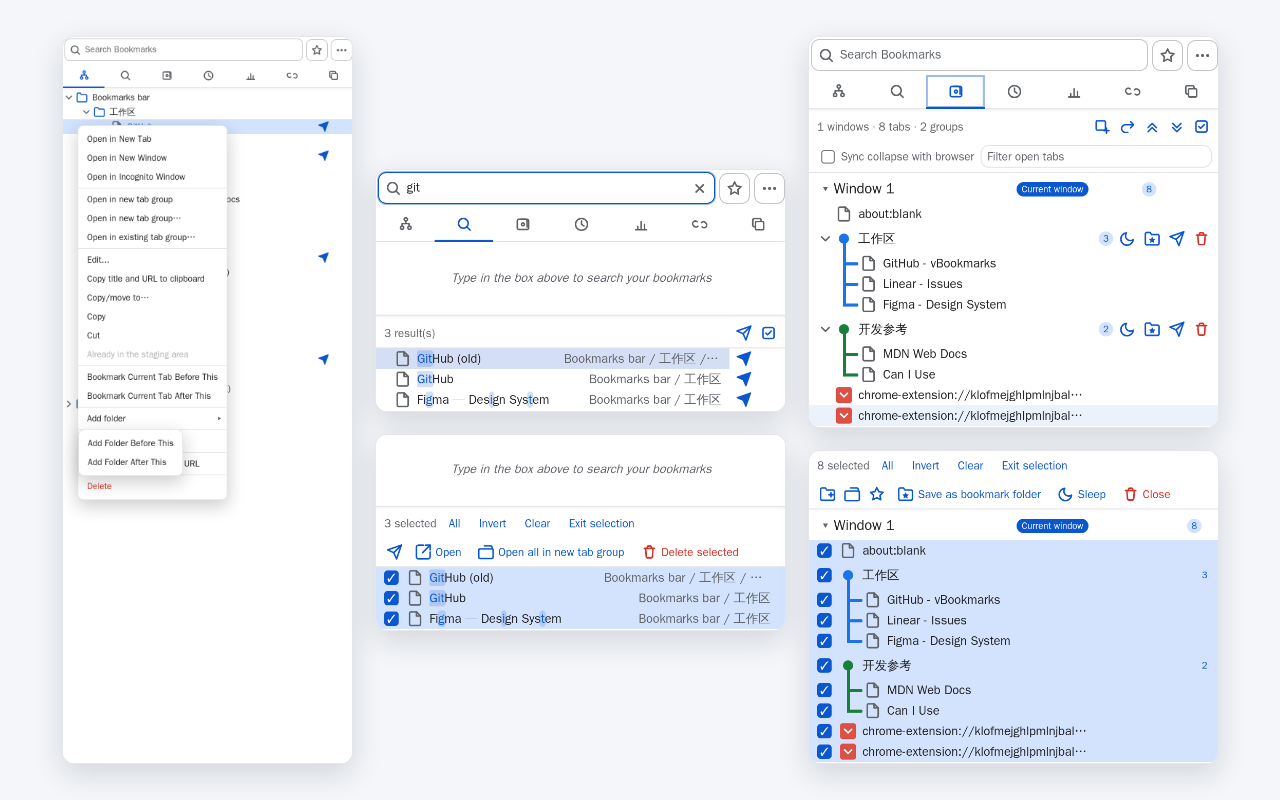
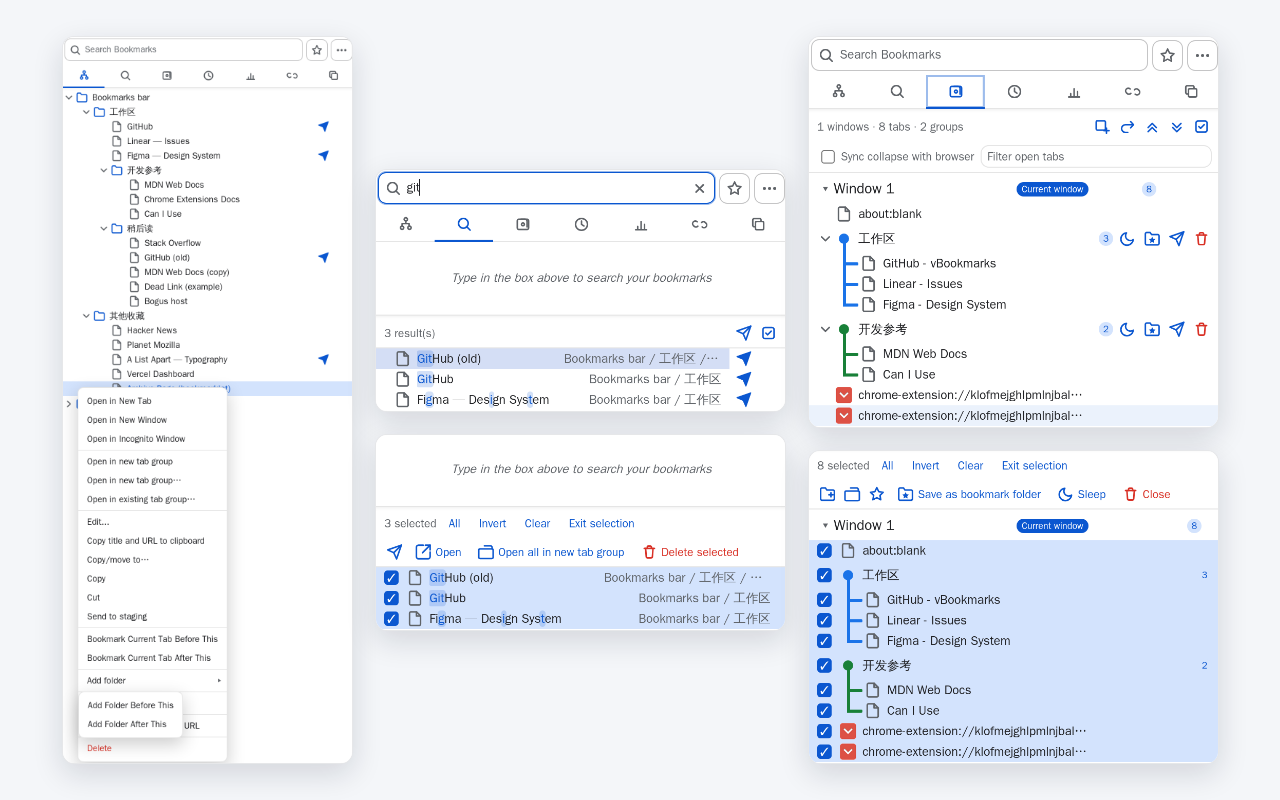
feat(store): 文案竞争力扩写 + 截图三优化(菜单锚点/字体/宣传图布局)
- description.{en,zh-CN}.txt 扩写后半:添加与整理便捷度(四种快存/窗口
  存档/批量/可撤销)、全键盘流(Alt+1…7/Tab 区域/Esc 分层)、暂存工作台
  新形态、超越官方的加强(分割线/favicon 补齐/死链双通道/同步指示)、
  主题与侧边栏展望;前半保持精炼,无重复
- shots-store.js: 右键菜单改在树末行(Archive Page)触发 —— 菜单垂到
  树下部空白,树上半部完整可见;子菜单展开位置加视口底部钳制
- 字体根治:容器内 fc-match 全部落空回退文泉驿(丑 CJK 根因)——
  fetch.sh 改拉静态实例(Inter.ttc 全集 + NotoSansSC-Regular/Medium/
  Bold.otf,variable 默认实例只有 400 偏细);rerun.sh/run.sh 字体拷贝
  改 cp -rL(worktree 符号链接进 Docker 上下文会断);.gitignore 补
  *.ttc/*.otf
- marquee 重排:新增七视图关键词 chips 行(单行 780px),⌘ + K 加空格
  防挤;右侧产品卡改小窗形态(标题栏三圆点 + 底部白边),圆角不再切
  popup 截图的角
- 八张产物全部重出并通过 normalize 门禁;webstore 测试 55/55 绿

Changed region(s): [[0.0312, 0.125, 0.2812, 0.9375]]

diff --git a/scripts/screenshots/shots-store.js b/scripts/screenshots/shots-store.js
@@ -363,17 +363,21 @@ const SEED = `
 
     // --- 2. light-tree page keeps going: context menu overlay ----------------
     // The promo's main card: expanded tree with the bookmark context menu
-    // open and its collapsible entry expanded in place. The visibly rendered
-    // collapsible varies by build gating (the tab-group trigger is
+    // open and its collapsible entry expanded in place. The menu is triggered
+    // on the tree's LAST bookmark row so it drapes over the tree's lower
+    // blank area — the tree's upper body stays fully visible (right-clicking
+    // a top row used to bury the whole tree under the menu). The visibly
+    // rendered collapsible varies by build gating (the tab-group trigger is
     // display:none here), so pick whichever has-submenu entry is laid out;
-    // placement replicates positionMenu's stack-below fallback.
+    // placement replicates positionMenu's stack-below fallback, clamped to
+    // the viewport bottom.
     {
         const page = await openThemed('light', 2, 1000);
         await expandTree(page);
         const link = await page.evaluate(() => {
             const a = [...document.querySelectorAll('#tree a.tree-item-link')]
-                .find(a => (a.querySelector('i')?.textContent || '').includes('GitHub'));
-            if (!a) throw new Error('bookmark row not found: GitHub');
+                .find(a => (a.querySelector('i')?.textContent || '').includes('Archive Page'));
+            if (!a) throw new Error('bookmark row not found: Archive Page');
             const rect = a.getBoundingClientRect();
             a.dispatchEvent(new MouseEvent('contextmenu', {
                 bubbles: true, cancelable: true, view: window,
@@ -400,10 +404,13 @@ const SEED = `
                     const r = e.getBoundingClientRect();
                     sub.style.maxHeight = '';
                     sub.style.maxWidth = '';
-                    sub.style.left = `${r.left + window.scrollX}px`;
-                    sub.style.top = `${r.bottom + window.scrollY + 2}px`;
                     sub.style.opacity = '1';
                     sub.style.transform = 'scale(1)';
+                    // The menu sits near the viewport bottom now — keep the
+                    // flyout inside the frame (stack below, else pin up).
+                    const sh = sub.getBoundingClientRect().height;
+                    sub.style.left = `${r.left + window.scrollX}px`;
+                    sub.style.top = `${Math.min(r.bottom + window.scrollY + 2, innerHeight - sh - 8)}px`;
                     e.setAttribute('aria-expanded', 'true');
                     return id;
                 }
@@ -722,7 +729,18 @@ const SEED = `
                     clip-path:polygon(8% 28%,50% 62%,92% 28%,92% 46%,50% 80%,8% 46%);"></div>`;
 
     {
-        const cardW = 300, cardH = 442;
+        // 左侧品牌区 + 两排 chips:第一排是七个视图关键词(即功能集合),
+        // 第二排是资历/语言/面板入口。右侧产品卡做成小窗:标题栏(三圆点)
+        // 吃掉卡片圆角,popup 截图从标题栏下方开始、底部再补白边,卡片圆角
+        // 不再切到截图自身的角。
+        const cardW = 300;
+        const imgH = cardW / aspectOf('tree-light');
+        const dot = c => `<div style="width:11px;height:11px;border-radius:50%;background:${c};"></div>`;
+        const viewChip = t => `<div style="padding:6px 12px;border-radius:999px;background:rgba(255,255,255,.13);
+                    border:1px solid rgba(255,255,255,.30);font-size:15.5px;font-weight:600;
+                    color:rgba(255,255,255,.95);white-space:nowrap;">${t}</div>`;
+        const metaChip = t => `<div style="padding:9px 18px;border-radius:999px;background:rgba(255,255,255,.16);
+                    border:1px solid rgba(255,255,255,.35);font-size:18px;font-weight:600;color:#fff;">${t}</div>`;
         await compose('marquee.html', 1400, 560, `
 <div style="position:relative;height:100vh;overflow:hidden;${brandFont}
             background:linear-gradient(115deg,#EC6150 0%,#D94837 48%,#B43024 100%);">
@@ -732,18 +750,24 @@ const SEED = `
                     box-shadow:0 14px 34px rgba(80,15,8,.35);display:flex;align-items:center;justify-content:center;">
             <img src="${brandIcon}" style="width:74px;height:74px;">
         </div>
-        <div style="margin-top:30px;font-size:66px;font-weight:800;letter-spacing:-2px;color:#fff;">vBookmarks</div>
-        <div style="margin-top:14px;font-size:25px;font-weight:500;color:rgba(255,255,255,.92);">Your bookmarks, one keypress away.</div>
-        <div style="margin-top:32px;display:flex;gap:12px;">
-            ${['Since 2011', '43 languages', 'MV3 native', '⌘K palette'].map(c =>
-                `<div style="padding:9px 18px;border-radius:999px;background:rgba(255,255,255,.16);
-                             border:1px solid rgba(255,255,255,.35);font-size:18px;font-weight:600;color:#fff;">${c}</div>`).join('')}
+        <div style="margin-top:28px;font-size:66px;font-weight:800;letter-spacing:-2px;color:#fff;">vBookmarks</div>
+        <div style="margin-top:12px;font-size:25px;font-weight:500;color:rgba(255,255,255,.92);">Your bookmarks, one keypress away.</div>
+        <div style="margin-top:26px;display:flex;gap:10px;flex-wrap:wrap;max-width:780px;">
+            ${['Tree', 'Search', 'Tab groups', 'Staging', 'Stats', 'Dead links', 'Duplicates'].map(viewChip).join('')}
+        </div>
+        <div style="margin-top:16px;display:flex;gap:12px;">
+            ${['Since 2011', '43 languages', '⌘ + K palette'].map(metaChip).join('')}
         </div>
     </div>
     <div style="position:absolute;right:96px;top:0;bottom:0;display:flex;align-items:center;">
-        <div style="width:${cardW}px;height:${cardH}px;background:#fff;border-radius:16px;overflow:hidden;
+        <div style="width:${cardW}px;background:#fff;border-radius:16px;overflow:hidden;
                     box-shadow:0 26px 64px rgba(80,15,8,.42);border:1px solid rgba(255,255,255,.5);">
-            <img src="${rel('tree-light')}" style="width:${cardW}px;height:auto;display:block;">
+            <div style="height:36px;display:flex;align-items:center;gap:7px;padding-left:14px;
+                        background:#fff;border-bottom:1px solid rgba(15,23,42,.06);">
+                ${dot('#ED6A5E')}${dot('#F4BF4F')}${dot('#61C454')}
+            </div>
+            <img src="${rel('tree-light')}" style="width:${cardW}px;height:${imgH.toFixed(1)}px;display:block;">
+            <div style="height:16px;background:#fff;"></div>
         </div>
     </div>
 </div>`);

diff --git a/scripts/screenshots/README.md b/scripts/screenshots/README.md
@@ -71,11 +71,15 @@ cover-cropped (the marquee product card is the single deliberate exception:
 a top-anchored crop showing the popup's first screen).
 
 Every capture is seeded and hermetic (non-extension requests are aborted), so
-re-runs are deterministic. Typography: Inter + Noto Sans SC (思源黑体) are
-installed by the Dockerfile from `scripts/screenshots/fonts/` (git-ignored;
-run `fonts/fetch.sh` once through the proxy) and forced via an injected
-stylesheet — without them the captures fall back to the base image's
-bitmap-ish CJK font. The composites are synced to
+re-runs are deterministic. Typography: Inter (static collection, `Inter.ttc`)
++ Noto Sans SC static OTF weights (Regular/Medium/Bold) are installed by the
+Dockerfile from `scripts/screenshots/fonts/` (git-ignored; run
+`fonts/fetch.sh` once through the proxy) and forced via an injected
+stylesheet. Static instances, not the variable builds — fontconfig/Chromium
+on Linux only resolves a variable font's default instance; and if the fonts
+are missing entirely (e.g. a worktree whose symlinks broke the context copy —
+the runners use `cp -rL` now) the captures silently fall back to the base
+image's WenQuanYi Zen Hei. The composites are synced to
 `assets/store/vBookmarks-{promo,promo2,promo3,strip,options,marquee,tile-small,themes}.png`
 by `update-store-assets.sh`, which then runs `normalize-store-assets.py`
 (Pillow on the host) — the spec gate that flattens alpha to RGB and hard-fails
